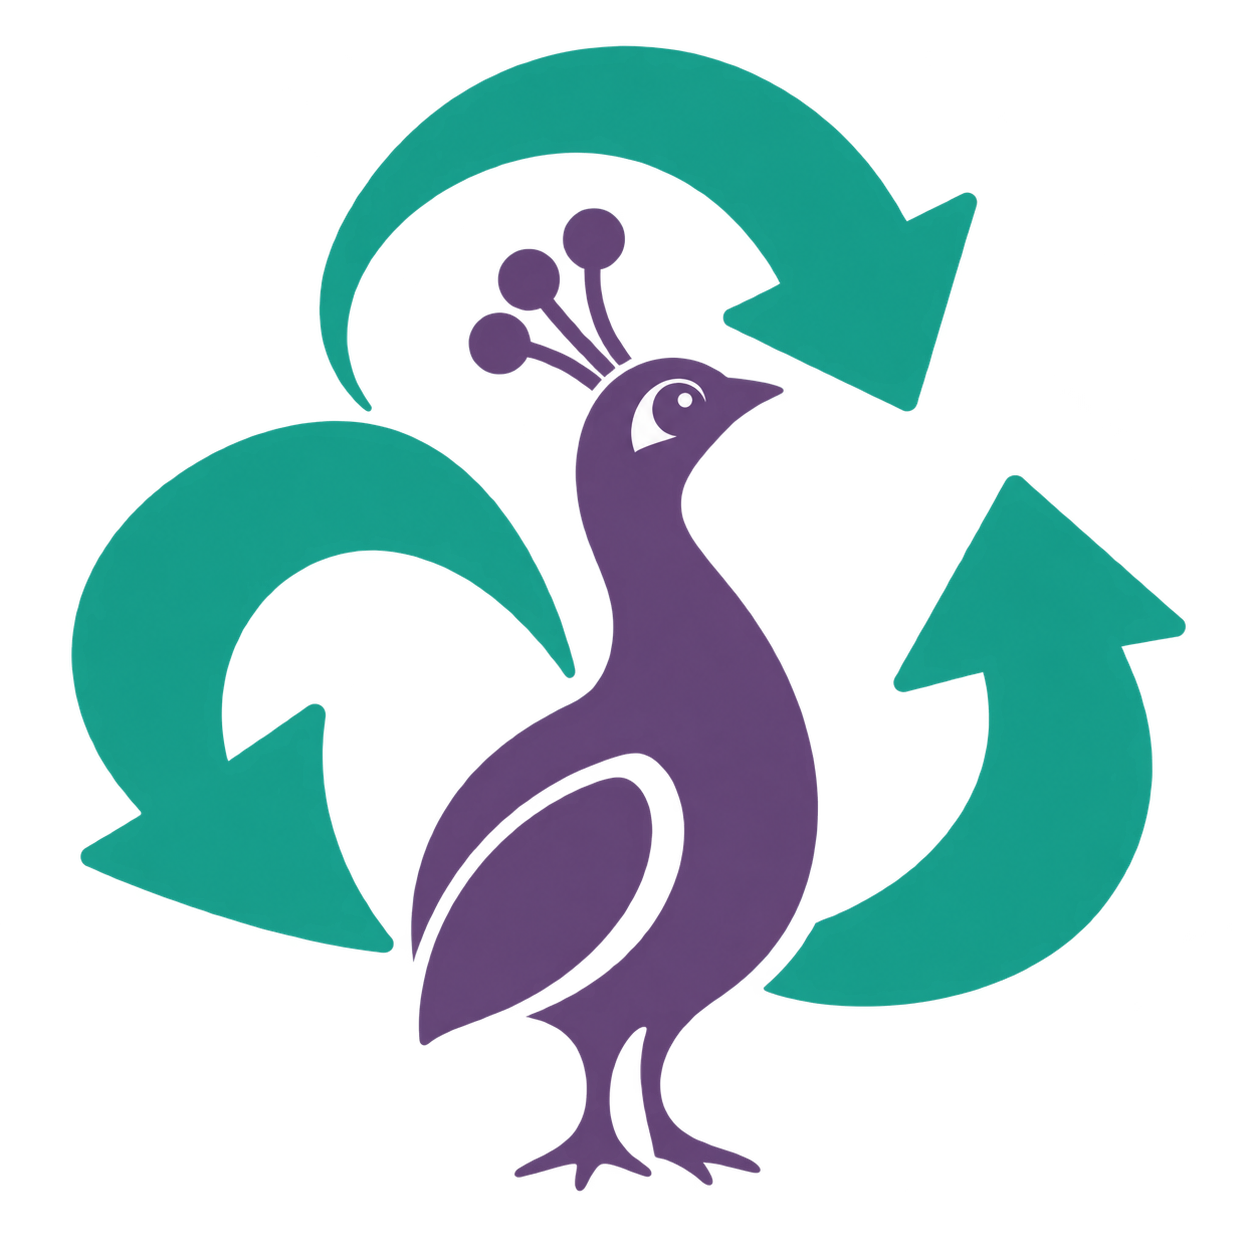
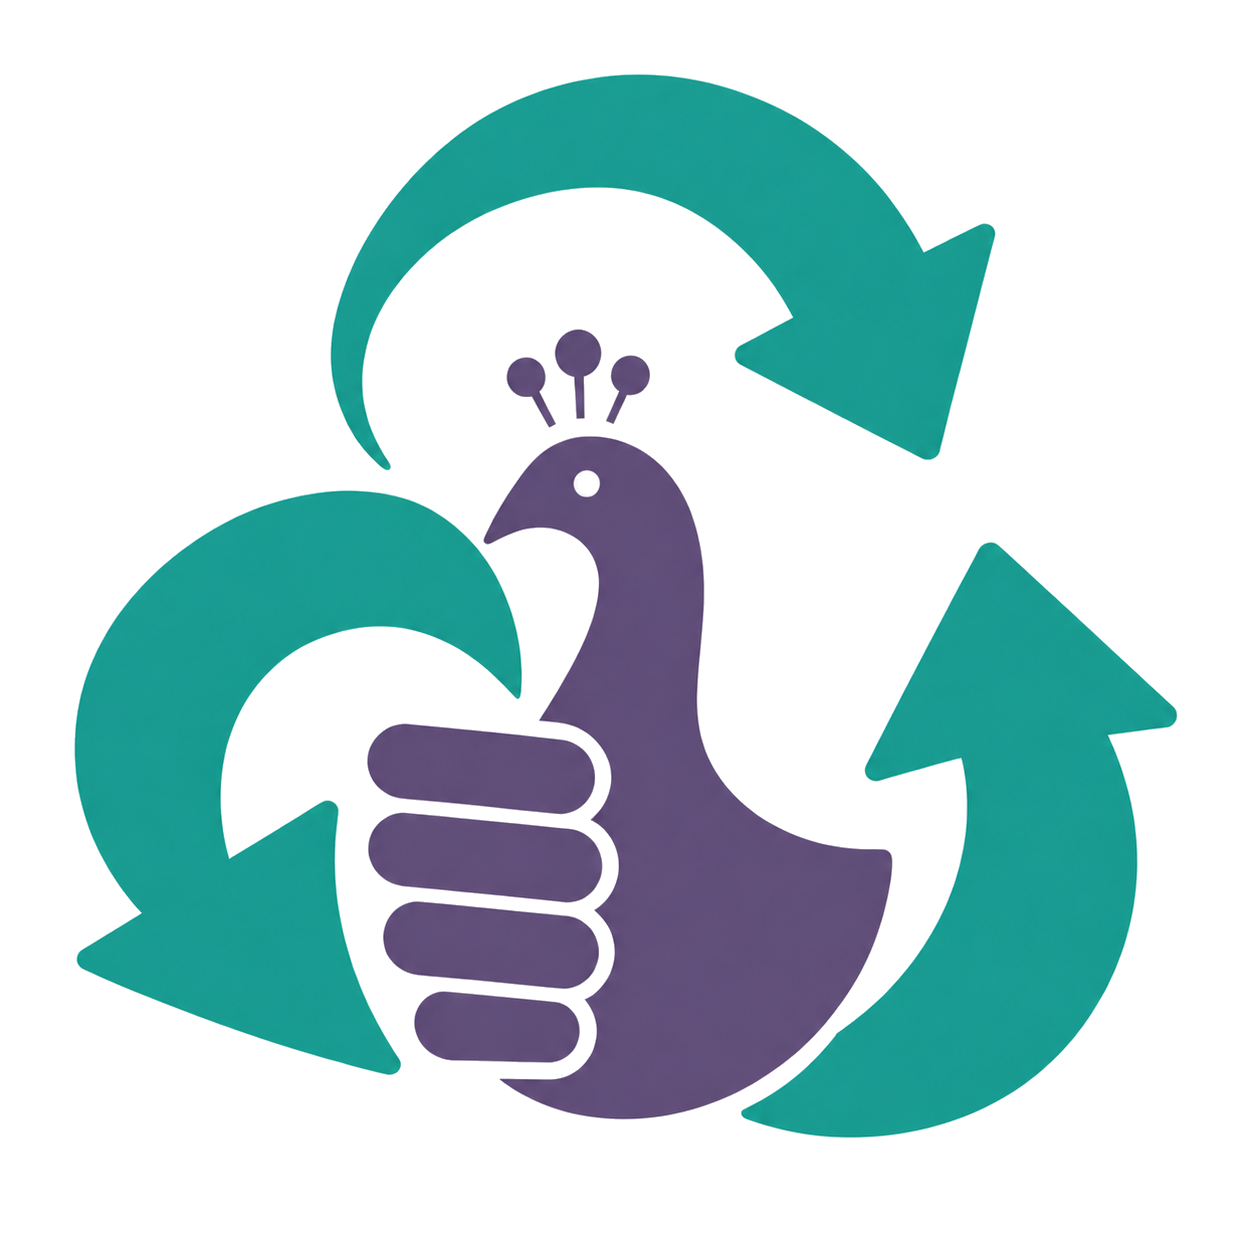
fix: preserve Aldea Pucela hand mascot

Changed region(s): [[0.0311, 0.0311, 0.9641, 0.9641], [0.7464, 0.4354, 0.7775, 0.4976], [0.6842, 0.1244, 0.7153, 0.1555]]

diff --git a/index.html b/index.html
@@ -7,8 +7,8 @@
       name="description"
       content="SegundaVida, una iniciativa de Aldea Pucela."
     />
-    <link rel="icon" type="image/png" sizes="1254x1254" href="./assets/segundavida-mark.png?v=sv-20260816-27" />
-    <link rel="apple-touch-icon" href="./assets/segundavida-mark.png?v=sv-20260816-27" />
+    <link rel="icon" type="image/png" sizes="1254x1254" href="./assets/segundavida-mark.png?v=sv-20260816-28" />
+    <link rel="apple-touch-icon" href="./assets/segundavida-mark.png?v=sv-20260816-28" />
     <title>SegundaVida · Aldea Pucela</title>
     <!-- Bump this version whenever static assets change to bypass Mini App caches. -->
     <link
@@ -17,9 +17,9 @@
       crossorigin="anonymous"
       onerror="document.documentElement.classList.add('icons-fallback')"
     />
-    <link rel="stylesheet" href="./css/icon-fallback.css?v=sv-20260816-27" />
-    <link rel="stylesheet" href="./css/tokens.css?v=sv-20260816-27" />
-    <link rel="stylesheet" href="./css/app.css?v=sv-20260816-27" />
+    <link rel="stylesheet" href="./css/icon-fallback.css?v=sv-20260816-28" />
+    <link rel="stylesheet" href="./css/tokens.css?v=sv-20260816-28" />
+    <link rel="stylesheet" href="./css/app.css?v=sv-20260816-28" />
     <script src="https://telegram.org/js/telegram-web-app.js?63"></script>
   </head>
   <body>
@@ -35,7 +35,7 @@
         </div>
         <div class="brand-lockup">
           <span class="brand-mark" aria-hidden="true">
-            <img class="brand-mark__image" src="./assets/segundavida-mark.png?v=sv-20260816-27" alt="" />
+            <img class="brand-mark__image" src="./assets/segundavida-mark.png?v=sv-20260816-28" alt="" />
           </span>
           <p class="brand-name">SegundaVida</p>
         </div>
@@ -408,10 +408,10 @@
       </button>
     </main>
 
-    <script src="./js/telegram.js?v=sv-20260816-27"></script>
-    <script src="./js/auth.js?v=sv-20260816-27"></script>
-    <script src="./js/api.js?v=sv-20260816-27"></script>
-    <script src="./js/analytics.js?v=sv-20260816-27"></script>
-    <script src="./js/app.js?v=sv-20260816-27"></script>
+    <script src="./js/telegram.js?v=sv-20260816-28"></script>
+    <script src="./js/auth.js?v=sv-20260816-28"></script>
+    <script src="./js/api.js?v=sv-20260816-28"></script>
+    <script src="./js/analytics.js?v=sv-20260816-28"></script>
+    <script src="./js/app.js?v=sv-20260816-28"></script>
   </body>
 </html>
